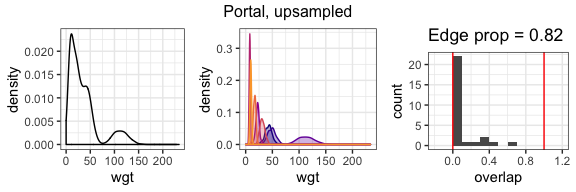
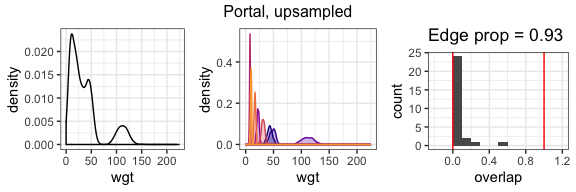
remove singleton species from overlap and add sims plots

diff --git a/analysis/sims_overlap.md b/analysis/sims_overlap.md
@@ -1,0 +1,139 @@
+Measuring overlap in SBSDs
+================
+
+SBSD = species body size distribution. The frequency/probability density of body sizes across all individuals of a species.
+
+Rationale & background of using overlap
+---------------------------------------
+
+The ISD (the size distribution across all individuals of all species) is...slippery and often subject to interpretation.
+
+Both Holling and ESS would predict polarized/bimodal distribution of overlap among all pairings of species. Species should either be quite similar or quite different, so high or low, but not intermediate, overlap.
+
+I've imported the SBSD overlap metric from [Read et al 2018](https://onlinelibrary.wiley.com/doi/full/10.1111/ecog.03641):
+
+1.  For all pairs of species in a community, construct the KDEs across the entire body size range and standardize so each KDE integrates to 1.
+2.  Integrate the minimum of the two KDEs at each evaluation point.
+
+In principle this varies from 0 to 1 for each pair of species.
+
+Foreshadowing artefacts from rare species
+-----------------------------------------
+
+1.  Pointy KDEs
+2.  Higher uncertainty wrt the true SBSD mean, sd, and indeed entire distribution.
+3.  We may inherently want to downweight rare species, but *this is separate from* the above.
+
+From sims
+---------
+
+![](sims_overlap_files/figure-markdown_github/show%20plots-1.png)![](sims_overlap_files/figure-markdown_github/show%20plots-2.png)![](sims_overlap_files/figure-markdown_github/show%20plots-3.png)![](sims_overlap_files/figure-markdown_github/show%20plots-4.png)![](sims_overlap_files/figure-markdown_github/show%20plots-5.png)![](sims_overlap_files/figure-markdown_github/show%20plots-6.png)![](sims_overlap_files/figure-markdown_github/show%20plots-7.png)![](sims_overlap_files/figure-markdown_github/show%20plots-8.png)![](sims_overlap_files/figure-markdown_github/show%20plots-9.png)
+
+Upsample with error propagation
+-------------------------------
+
+Here's the outcomes:
+
+![](sims_overlap_files/figure-markdown_github/show%20error%20prop%20outcomes-1.png)![](sims_overlap_files/figure-markdown_github/show%20error%20prop%20outcomes-2.png)![](sims_overlap_files/figure-markdown_github/show%20error%20prop%20outcomes-3.png)![](sims_overlap_files/figure-markdown_github/show%20error%20prop%20outcomes-4.png)![](sims_overlap_files/figure-markdown_github/show%20error%20prop%20outcomes-5.png)![](sims_overlap_files/figure-markdown_github/show%20error%20prop%20outcomes-6.png)![](sims_overlap_files/figure-markdown_github/show%20error%20prop%20outcomes-7.png)![](sims_overlap_files/figure-markdown_github/show%20error%20prop%20outcomes-8.png)![](sims_overlap_files/figure-markdown_github/show%20error%20prop%20outcomes-9.png)
+
+<!-- ## Many samples -->
+<!-- Now let's take the same pipeline as above, run it many times, and report the edge proportion. -->
+<!-- For now we'll retain all the intermediate samples. This will be unwieldly eventually, but for now I suspect I'll want to look closely at some of them. -->
+<!-- ```{r many samples} -->
+<!-- replicate_samples <- function(means_vect, abunds_vect, times = 100) { -->
+<!--   return(replicate(sample_community(means = means_vect, abunds = abunds_vect), n = times, simplify = F)) -->
+<!-- } -->
+<!-- resample_community <- function(community_df) { -->
+<!--   summary_df <- community_df %>% -->
+<!--     group_by(species) %>% -->
+<!--     summarize(meanwgt = mean(wgt), -->
+<!--               abund = dplyr::n()) %>% -->
+<!--     ungroup() -->
+<!--   newabund <- ceiling(summary_df$abund * 50 / min(summary_df$abund)) -->
+<!--   new_community <- sample_community(means = summary_df$meanwgt, abunds = newabund) -->
+<!--   return(new_community) -->
+<!-- } -->
+<!-- set.seed(5) -->
+<!-- even_sims <- lapply(scenarios, FUN = replicate_samples, abunds_vect = abunds) -->
+<!-- ls_sims <- lapply(scenarios, FUN = replicate_samples, abunds_vect = ls_abunds) -->
+<!-- ls_upsampled_sims <- lapply(ls_sims, FUN = function(sims_list) return(lapply(sims_list, FUN = resample_community))) -->
+<!-- extract_edge_prop <- function(sims_list) { -->
+<!--   return(data.frame(sim = 1:length(sims_list), edge_prop = vapply(sims_list, FUN = function(community_df) return(edge_proportion(community_overlap(community_df))), FUN.VALUE = 1))) -->
+<!-- } -->
+<!-- even_overlaps <- lapply(even_sims, FUN = extract_edge_prop) -->
+<!-- ls_overlaps <- lapply(ls_sims, FUN = extract_edge_prop) -->
+<!-- ls_up_overlaps <- lapply(ls_upsampled_sims, FUN = extract_edge_prop) -->
+<!-- even_overlaps <- bind_rows(even_overlaps, .id = "source") -->
+<!-- ls_overlaps <- bind_rows(ls_overlaps, .id = "source") -->
+<!-- ls_up_overlaps <- bind_rows(ls_up_overlaps, .id = "source") -->
+<!-- all_overlaps <- bind_rows(list(even = even_overlaps, ls = ls_overlaps, ls_up = ls_up_overlaps), .id = "sampling") -->
+<!-- head(all_overlaps) -->
+<!-- extract_edge_prop_w <- function(sims_list, wcol = "prod_n") { -->
+<!--   return(data.frame(sim = 1:length(sims_list), edge_prop = vapply(sims_list, FUN = function(community_df) return(edge_proportion(community_overlap(community_df), weight_col = wcol)), FUN.VALUE = 1))) -->
+<!-- } -->
+<!-- even_overlaps_w <- lapply(even_sims, FUN = extract_edge_prop_w) -->
+<!-- ls_overlaps_w <- lapply(ls_sims, FUN = extract_edge_prop_w) -->
+<!-- ls_up_overlaps_w <- lapply(ls_upsampled_sims, FUN = extract_edge_prop_w) -->
+<!-- even_overlaps_w <- bind_rows(even_overlaps_w, .id = "source") -->
+<!-- ls_overlaps_w <- bind_rows(ls_overlaps_w, .id = "source") -->
+<!-- ls_up_overlaps_w <- bind_rows(ls_up_overlaps_w, .id = "source") -->
+<!-- all_overlaps_w <- bind_rows(list(even = even_overlaps_w, ls = ls_overlaps_w, ls_up = ls_up_overlaps_w), .id = "sampling") -->
+<!-- head(all_overlaps_w) -->
+<!-- ``` -->
+<!-- ```{r show all overlaps} -->
+<!-- overlaps_plot <- ggplot(data = all_overlaps, aes(x = edge_prop, fill = source)) + -->
+<!--   geom_histogram(binwidth = .1, boundary = 0) + -->
+<!--   xlim(-.2, 1.2) + -->
+<!--   theme_bw() + -->
+<!--   facet_grid(rows = vars(sampling), cols = vars(source), scales = "free_y", switch = "y") +  -->
+<!--   scale_fill_viridis_d(option = "plasma", end = .8) -->
+<!-- overlaps_plot -->
+<!-- overlaps_w_plot <- ggplot(data = all_overlaps_w, aes(x = edge_prop, fill = source)) + -->
+<!--   geom_histogram(binwidth = .1, boundary = 0) + -->
+<!--   xlim(-.2, 1.2) + -->
+<!--   theme_bw() + -->
+<!--   facet_grid(rows = vars(sampling), cols = vars(source), scales = "free_y", switch = "y") +  -->
+<!--   scale_fill_viridis_d(option = "plasma", end = .8) -->
+<!-- overlaps_w_plot -->
+<!-- ``` -->
+<!-- #### Overlaps density plots -->
+<!-- This might give a better picture than the edge prop, in that it isn't as sensitive to where you put the cutoffs. But, potentially also computationally intensive and tough to make sense of.  -->
+<!-- ```{r overlap density plots} -->
+<!-- extract_overlap <- function(sims_list) { -->
+<!--   overlaps <- lapply(sims_list, FUN = community_overlap) -->
+<!--   names(overlaps) <- 1:length(sims_list) -->
+<!--   overlaps <- bind_rows(overlaps, .id = "sim") -->
+<!-- } -->
+<!-- even_overlaps_r <- lapply(even_sims, FUN = extract_overlap) -->
+<!-- ls_overlaps_r <- lapply(ls_sims, FUN = extract_overlap) -->
+<!-- ls_up_overlaps_r <- lapply(ls_upsampled_sims, FUN = extract_overlap) -->
+<!-- even_overlaps_r <- bind_rows(even_overlaps_r, .id = "source") -->
+<!-- ls_overlaps_r <- bind_rows(ls_overlaps_r, .id = "source") -->
+<!-- ls_up_overlaps_r <- bind_rows(ls_up_overlaps_r, .id = "source") -->
+<!-- all_overlaps_r <- bind_rows(list(even = even_overlaps_r, ls = ls_overlaps_r, ls_up = ls_up_overlaps_r), .id = "sampling") -->
+<!-- all_overlaps_r <- all_overlaps_r %>% -->
+<!--   mutate(sim_source_even = paste0(source, sampling, sim), -->
+<!--          prod_n = floor(prod_n/46)) -->
+<!-- raw_density_plot <- ggplot(data = all_overlaps_r, aes(x = overlap, y = stat(scaled), color = source, group = sim_source_even)) + -->
+<!--   geom_density(alpha = 0, size = .03, n = 16) + -->
+<!--   xlim(-.2, 1.2) + -->
+<!--   theme_bw() + -->
+<!--   facet_wrap(vars(sampling, source), scales = "free_y", strip.position = "top") +  -->
+<!--   scale_fill_viridis_d(option = "plasma", end = .8) + -->
+<!--   geom_vline(xintercept = c(.2, .7), color = "black") -->
+<!-- raw_density_plot -->
+<!-- all_overlaps_scaled <- data.frame( -->
+<!--   sampling = rep(all_overlaps_r$sampling, times = all_overlaps_r$total_n), -->
+<!--   source = rep(all_overlaps_r$source, times = all_overlaps_r$total_n), -->
+<!--   sim_source_sampling = rep(all_overlaps_r$sim_source_even, times = all_overlaps_r$total_n), -->
+<!--   overlap = rep(all_overlaps_r$overlap, times = all_overlaps_r$total_n) -->
+<!-- ) -->
+<!-- scaled_density_plot <-  ggplot(data = all_overlaps_scaled, aes(x = overlap, y = stat(scaled), color = source, group = sim_source_sampling)) + -->
+<!--   geom_density(alpha = 0, size = .03, n = 16) + -->
+<!--   xlim(-.2, 1.2) + -->
+<!--   theme_bw() + -->
+<!--   facet_wrap(vars(sampling, source), scales = "free_y", strip.position = "top") +  -->
+<!--   scale_fill_viridis_d(option = "plasma", end = .8) + -->
+<!--   geom_vline(xintercept = c(.2, .7), color = "black") -->
+<!-- scaled_density_plot -->
+<!-- ``` -->
